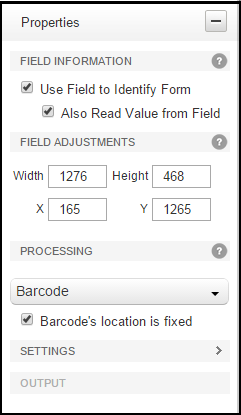
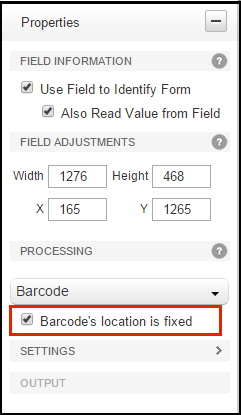
SS 1.1 Template Builder add images, reorganize basic usage steps

Changed region(s): [[0.029, 0.7229, 0.9295, 0.8096]]

diff --git a/src/simulscan/1-1/guide/templatebuilder/index.md b/src/simulscan/1-1/guide/templatebuilder/index.md
@@ -6,32 +6,36 @@ productversion: '1.1'
 ---
 
 ## Overview
-Template Builder is a web-based tool that can quickly define which information will be captured from a scanned document and made available to applications. Templates are the key to controlling the data-capture capabilities of SimulScan and processing acquired data as needed. 
+Template Builder is a web-based tool for defining the information captured by SimulScan and determining how it will be processed and made available to applications. Templates are the key to controlling SimulScan data-capture features and for processing the data as required. 
 
-Most data acquisition tasks involve capturing data from printed documents. The size, shape and layout of such documents can vary tremendously, which makes consistent and accurate data capture a challenge. Templates solve this problem by "teaching" SimulScan about the documents it will encounter most often, and defining how to process the data. 
+Most acquisition tasks involve capturing data from printed documents, which often vary in size, shape and layout and can be a challenge to accuracy. Templates solve this problem by "teaching" SimulScan about the documents it will encounter and defining how to handle the incoming data. 
 
 <img style="height:350px" src="msi_reader.png"/>
-*A typical barcode-only form, the most common and effective usage scenario for SimulScan*.
+*A typical barcode-only form, SimulScan's most common and effective usage scenario*.
 <br>
 
-Templates work on the principle that the _**location**_ and _**type**_ of data in each region of a form (i.e. barcodes, alphanumeric characters, signatures, etc.) will remain consistent and that _**only the data will change**_ with each new instance of that form. By creating a SimulScan Template to uniquely identify each region and data type, the developer can map data from each region to specific fields of an application. 
+Templates work on the principle that the _**location**_ and _**type**_ of data in each region of a form (i.e. barcodes, alpha/numeric characters, signatures, etc.) will remain consistent and that _**only the data will change**_ with each new instance of that form. Templates that uniquely identify each region and data type of a particular form allow SimulScan to capture the data quickly and accurately, and permit developers to map the acquired data to specific fields of their application. 
 
-For example, a company that receives regular shipments accompanied with a label like the one above could create a Multi-barcode Template that maps the part number and supplier number from the barcodes in the upper row, and the quantity-received information from the barcode in the lower-left corner to corresponding fields of their application. 
+For example, a company that receives regular shipments accompanied with a label like the one above could create a [Multi-barcode](../about/#multibarcodemode) Template that maps the part number and supplier number from the barcodes in the upper row, and the quantity-received information from the barcode in the lower-left corner to the corresponding fields of an application. 
 
 ### What's in This Guide
-This guide provides step-by-step instructions for accessing the Template Builder tool online and how to use its drag-and-drop interface to create any required Templates, deploy them to the device and activating them when needed. 
+This guide provides step-by-step instructions for accessing the Template Builder tool online and using its drag-and-drop interface to [create a Template](#createatemplate), [deploy Templates](#deploytemplates) to the device and [activate the desired template](#activateatemplate) when needed. For those not familiar with SimulScan concepts and terminology, please see the [About SimulScan](../about) page before proceeding. 
 
-This guide assumes a basic knowledge of SimulScan concepts and terminology. It might be helpful to visit the [About SimulScan](../about) page before proceeding. 
+### Template Builder Terms
 
------
+**Anchor Element(s) -** one or more unchanging images or other Document attributes (i.e. company logo) that SimulScan can use to determine Document orientation.
 
-##Template Builder Terms
+**Data Type -** defines the source (barcode, OCR, etc.) of data being acquired from a Region of a Document. 
+
+**Document -** printed form containing data to be acquired (i.e. a shipping receipt). Documents should be associated with no more than one Template. 
 
 **Field -** region of a form associated with a data type and processing method (i.e. a barcode).
 
-**Template -** XML document that defines the fields (regions) of a shipping receipt or other document to be scanned. Templates are always associated with exactly one Document. 
+**Mixed-Data Mode -** captures multiple data types from mixed sources, such as barcodes, alpha/numeric characters, checkboxes and images. 
 
-**Document -** printed form containing data to be acquired (i.e. a shipping receipt). Documents should be associated with no more than one Template. 
+**Multi-barcode Mode -** used on forms from which only barcode data will be acquired. This is the most common usage scenario. 
+
+**Multi-Line -** acquisition using OCR of multiple lines of alpha/numeric characters (i.e. a complete address).
 
 **OCR -** Optical Character Recognition, a processing mode for acquiring alpha/numeric characters.
 
@@ -43,63 +47,13 @@ This guide assumes a basic knowledge of SimulScan concepts and terminology. It m
 
 **Single-Line -** acquisition using OCR of a single line of alpha/numeric characters (i.e. a product number).
 
-**Multi-Line -** acquisition using OCR of multiple lines of alpha/numeric characters (i.e. a complete address).
+**Target, Structured -** a Document with a layout that doesn't change from one instance to another.
 
-**Structured -** describes a Document with a layout that doesn't change from one instance to another.
+**Target, Unstructured -** a Document with no fixed layout, or a Document that has not been defined with a Template.
 
-**Unstructured -** describes a Document with a layout that changes or that has not been defined with a Template.
+**Template -** XML document that defines the fields (Regions) of a shipping receipt or other document to be scanned. Templates are always associated with exactly one Document. 
 
-**Anchor Element(s) -** one or more unchanging images  or other Document attributes (i.e. company logo) that SimulScan can use to determine Document orientation.
-
-**Multi-barcode Mode -** used on forms from which only barcode data will be acquired. This is the most common usage scenario. 
-
-**Mixed-Data Mode -** captures multiple data types from mixed sources, such as barcodes, alpha/numeric characters, checkboxes and images. 
-
------
-
-## Using Template Builder 
-Template Builder is free for Zebra customers and partners, but registration is required to access it. SimulScan also can be used without a License if the only requirement is to scan barcodes through an app using [DataWedge](../../../../datawedge). Access to OCR and OMR features or to use SimulScan APIs requires a License. For more information, please see the [Licensing page](../license).
-
-###Create an Account
-&#49;. Visit the [Zebra SimulScan registration page](https://signup.zebra.com/register.html?appId=SIMS), follow prompts to create a free account and enter all requested information. Once an account is created, an email will be sent by Zebra administrators with login information. 
-
-![img](image5.png)
-
-&#50;. Point a browser to [simulscan.zebra.com](https://simulscan.zebra.com) and enter the login information or PartnerKey. A screen similar to the image below appears.  
-
-![img](image6.png)
-
-&#51;. Select the desired template type: 
-
-* **Barcodes only** enables Multi-barcode Mode
-
-* **Structured targets** is for this and that. 
-
-* **Barcodes only**
-
-There are three main types of Templates that can be generated by the Template Builder: “Barcodes Only”,“Structured Targets” & “Unstructured Targets”.
-
-
-After creating the Template, it is output as an .XML file containing details about the various fields, processing modes and other parameters. Since this is a machine generated file, it is highly not recommended that any manual changes be made to this .XML as any manual editing may corrupt its operation. The output .XML file is Base64 encoded for additional safety.
-
-Barcodes Only Templates cater to the below use-cases:
-Decode multiple barcode(s) simultaneously
-Pick specific barcode(s) 
-
-
-Structured Targets Templates cater to the below use-cases:
-Decode barcodes.
-Extract key fields of interest
-Recognize characters (OCR)
-Recognize check marks (OMR)
-Signature presence check
-Output images
-
-
-Unstructured Targets Templates cater to below use-cases:
-Freeform OCR Single Line recognition
-Freeform OCR Multiple Line recognition
-
+ADD THESE TOO (below)? 
 
 Multi-Templates
 A Template is associated with a single document. A user can then create a Template XML file that stitches together multiple single Templates to form one larger Template, called as “multi-template”. This would serve well in use-cases given an end-user workflow where the user works with a small set of multiple document in a given day (around two to six). A single multi-template can be created for all
@@ -114,38 +68,143 @@ This feature serves well in use-cases where a logical entity is split into multi
 Secure Storage
 All Templates created by a user are stored in a secure location for future reference. Folders are created with the login user name and the user can use the File -> Manage Templates option to manage their folder. The user can create folders, cut, copy or move templates. A default “Release” folder is pre-created which is visible from the SimulScan client on the device when provided the right login credentials.
 
-
-
-
 Validation
 Validation provides a mechanism with which a Template can be verified on the Template Builder before they are deployed to devices for use. This feature validates if the “fields” marked on the document and the properties set for each of the field are correct, prompting the user to rectify the Template if required. Validation is still in Beta. 
 
 
-Form Identification via Fields
-Usually forms carry some unique features that make them different from others. These can be used to uniquely identify the document. This comes in handy either to discriminate between multiple documents or as in the case of structured documents, help detect the right orientation of the document. It is recommended to:
-Mark 2-3 fields per document as “identifier(“Use Field to Identify Form” check box)” fields.
-These fields need to be physically spread out in the document, (e.g. on the top, bottom and on one of the sides).
-Static fields such as logos and pre-printed content work best for structured targets.
-Barcodes that are consistent across labels would work best for Barcodes only targets.
-These fields may or may not be reported back to the user-application. For example, a company’s logo would be best suited to be an “identifier” field but its value need not be read and reported to the end-user application.
-Check the “Also Read Value from Field” box if you wish to report this data back to the user application.
+-----
 
-For instance, the Postal/T&L logo on the top-right corner is a good feature for a UPS shipping form; two CODE128 barcodes and one PDF417 barcode are good features to make the FedEx tracking form identifiable.
-Template Builder enables users to define these features based on the Barcode and Picture data mentioned above.
+## Using Template Builder 
+Template Builder is free but registration might be required. Zebra customers, partners and ISVs with access to Partner Central can use their existing credentials for access. Others must register using the instructions below.
 
---image--
+**Note**: SimulScan can be used without a License if the requirement is to scan only barcodes through an app using [DataWedge](../../../../datawedge). A SimulScan License is required for access to OCR and OMR features and/or SimulScan APIs. For more information, please see the [Licensing page](../license).
 
-By checking the “Use Field to Identify Form” checkbox in the Properties panel, the specified data will be used to identify the form. For Picture data, the size, location of the picture region will be used as features. For Barcode data, the setting parameters will be used as features. If the size and location of the barcode is fixed, please check “Barcode’s location is fixed” in the Properties panel, and then the size and location of the barcode will be used as features as well.
-Specifying barcodes with fixed size and location also benefits the data processing in general. We recommend users to click “Barcode’s location is fixed” checkbox whenever a barcode will always be in the same location on a form. This check box is only available in “Structured Targets” Templates for non-postal Barcode symbologies.
+### Quick Steps
+1. Log in, Select the Template Type.
+2. Upload an image of the Document to be scanned (.bmp, .jpg, .png or PDF).
+3. Identify regions of the Document and their data types (barcodes, text, etc.).
+4. **Save work often**. Template Builder does not automatically save changes. 
+4. Download the completed Template(s) to the development host (local PC). 
+5. Copy the Template file(s) to the device that will be performing the scans. 
+6. If applicable, select the Template from within the scanning app.  
 
---image--
+### Create an Account
+**&#49;. Visit the [Zebra SimulScan registration page](https://signup.zebra.com/register.html?appId=SIMS)**, follow prompts to create a free account and enter all requested information. Once an account is created by Zebra administrators, an email will be sent with login information. 
 
-Processing Modes
-Presently four processing modes are supported:
-Barcode: Used to scan single or multiple barcodes in the field of view.
-OCR: used to read text, such as names, addresses, etc.
-OMR: Used to read check marks and bubbles.
-Picture: Used for signatures, photos, entire documents (if it’s a busy document with lot of handwritten content)
+![img](image5.png)
+<br>
+
+**&#50;. Point a browser to [simulscan.zebra.com](https://simulscan.zebra.com)** and enter the login credentials. A screen appears similar to the image below: 
+
+![img](image6.png)
+<br>
+
+### Select Template Type
+
+**&#51;. Select the desired template type**: 
+
+* **Structured Targets -** for layouts that **do not** change from one instance to another. Select this option to: 
+ * Scan barcodes
+ * Recognize characters (OCR)
+ * Recognize check marks (OMR)
+ * Capture Signature(s) or other images
+ * Extract other key fields of interest
+
+* **Unstructured Targets -** for layouts that change or that **have not** been defined with a Template. Select this option to: 
+ * Scan multiple barcodes simultaneously 
+ * Use OCR for a single line of alpha/numeric text 
+ * Use OCR for a multiple lines of alpha/numeric text 
+
+**&#51;a. If selecting Structured Targets**:
+* An Open... dialog appears
+* Select the image (.bmp, .jpg, .png or PDF) of the Document for which to create the Template**
+* Minimum image resolution is 640x480 pixels
+* Maximum image resolution is 6000x6000 pixels
+* Maximum image file size is 5MB
+* For a PDF, select page number from the drop-down (if necessary) 
+
+**&#51;b. If selecting Unstructured Targets**:
+
+ * Select "Multi-barcode" to capture barcodes or "OCR" for alpha/numeric text (see below)
+
+![img](image6a.png)
+<br>
+
+**&#52;. Save the Template to proceed**:
+
+![img](image6b.png)
+<br>
+
+> **Warning: Do not attempt to modify the Template file by hand**. Templates contain machine-generated XML stored in Base64-encoded files. They are not intended to be edited manually. 
+
+### Identify Document Regions
+
+> **Skip to Step 7 for Unstructured Targets**. 
+
+After uploading an image of the target Document...
+
+**&#53;. Confirm that the "AutoCrop" feature (enabled by default) has accurately identified the Document boundaries**:
+
+![img](image6d.png)
+<br>
+
+**To adjust, click "Disable AutoCrop" and set Blue bounding box so that it's just outside the borders of the Document. Click "OK" when done. This serves as the base reference for identifying the form and processing its contents**.  
+
+**&#54;. Drag a box <u>from the upper-left corner to the lower-right corner</u> of each Region of the Document that contains data to be acquired**:
+
+![img](image6c.png)
+<br>
+
+Alternative ways to create Fields:
+
+ * Select **Edit --> Create New Field**, enter a name for the field and draw a box around the corresponding Region.
+ * Click the **Add Field** button (arrow, below), enter a name and draw a box around the corresponding Region.
+
+![img](image6e.png)
+<br>
+
+Fields not specifically named will be assigned a generic name (as shown). These can be edited later as desired (see [Modify a Template](modifyatemplate)). 
+
+Provide (or confirm) the following required settings for each Field created: 
+ * A name for the field, if desired.
+ * Properties (length/width and X-Y coordinates)
+ * The required Processing mode (barcode, OCR, etc.) 
+ * Processing-mode settings (decoder type, text-type, etc.)
+ * Select at least three "Anchor Elements" (explained below) 
+
+> **Be sure to save work often!** Template Builder does not automatically save changes. Unsaved changes will be lost if the screen is dismissed or the session timeout is reached.  
+
+### Select Anchor Elements
+In addition its use of Document border dimensions, SimulScan uses Fields, company logos or other unique attributes of a Document to positively identify it and determine its orientation relative to the scanner (i.e. whether it's upside down). Optionally, Anchor Elements can contain data to be acquired, such as a barcode or image. Zebra recommends that at least two Anchor Elements be identified in accordance with the guidelines below. 
+
+**Anchor Element Guidelines**:
+
+* Select two or three Fields per document as Anchor Elements. 
+* Anchor Elements should be spread across the top, bottom and side(s) of the Document.   
+* For Structured Targets, static fields such as logos and preprinted content work best.
+* For barcode-only targets, barcodes with a fixed location across different labels work best.
+* For fixed barcodes, select the “Barcode’s location is fixed” option in the Properties panel.
+* Anchor Elements need not contain data to be acquired ("Also Read Value from Field" is optional).
+
+![img](image36a.png)
+<br>
+
+For example, in the Postal T&L Document above, the logo in the upper-left corner and the barcode in the upper-right would identify this form adequately for SimulScan to activate its template. When using a fixed barcode as an Anchor Element, be sure to **select the “Barcode’s location is fixed” in the Properties panel**, as below. 
+
+![img](image29.png)
+_This attribute appears only in "Structured Targets" Templates for non-postal Barcode symbologies_.
+<br>
+
+This attribute is available only on “Structured Targets” Templates for non-postal Barcode symbologies. Zebra recommends selecting this attribute to help improve processing time whenever it is known that a barcode always will be in the same location on a form. 
+
+**&#55;. When the Template is finished, Download it to the local development host**:
+
+![img](image40.png)
+<br>
+
+**The Template can now be distributed to scanning devices**. 
+
+### Deploy to Devices
 
 
 Template Persistence
